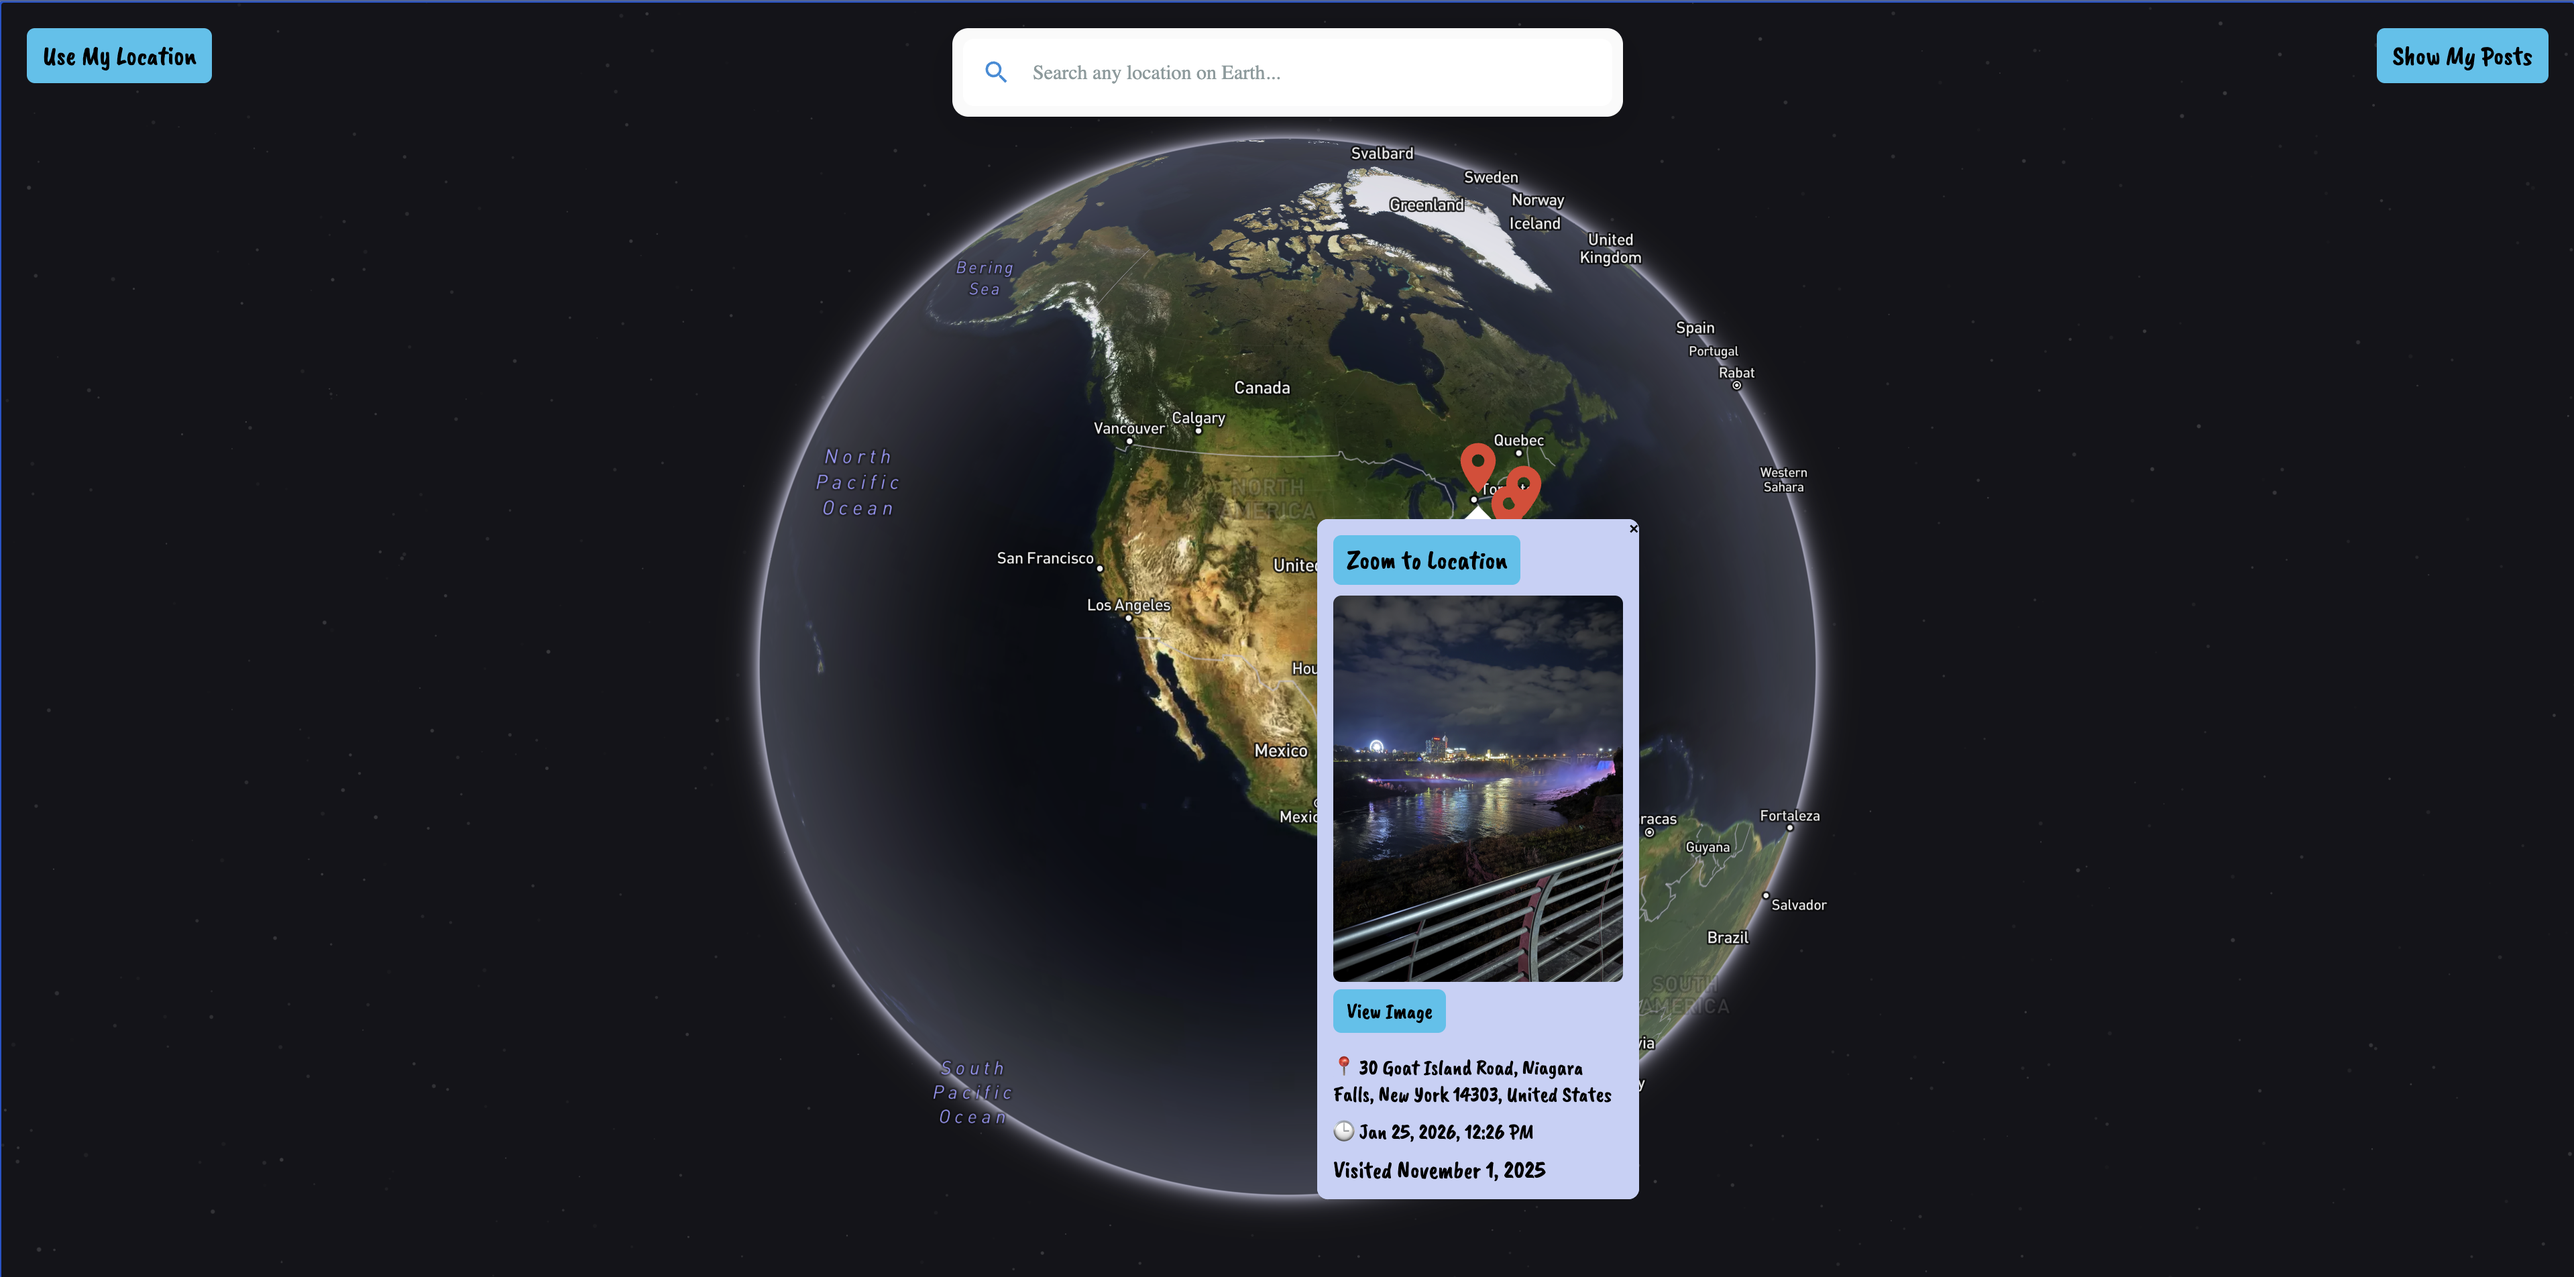
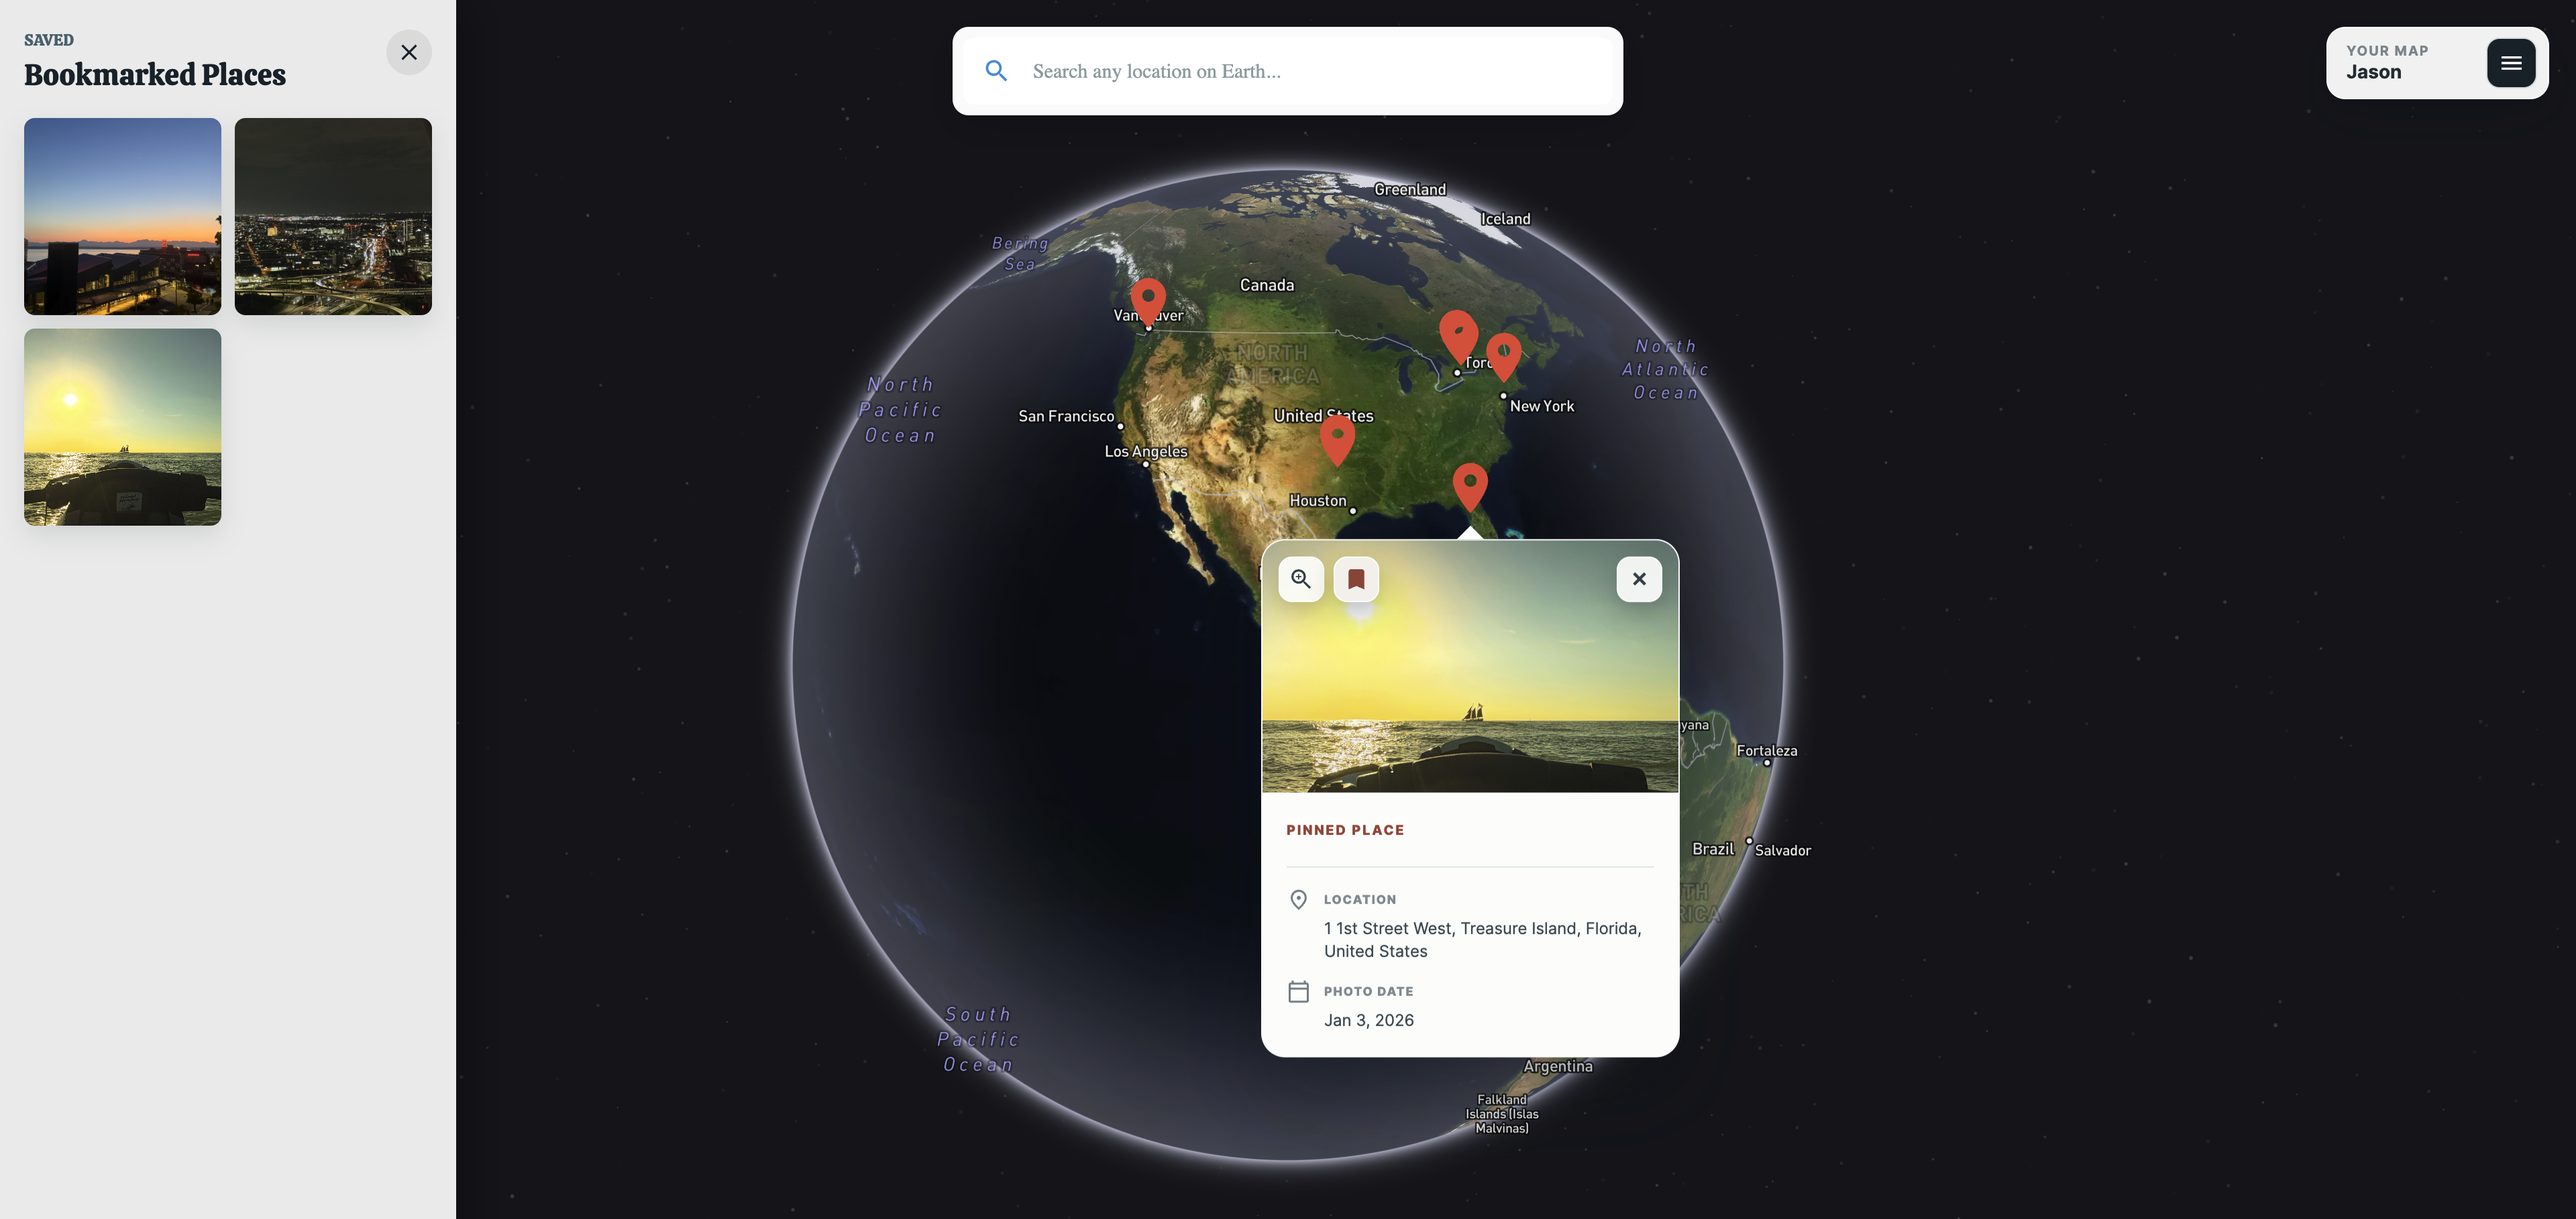
Enhance card and project styles with hover effects

diff --git a/src/styles/Projects.css b/src/styles/Projects.css
@@ -22,6 +22,10 @@
       linear-gradient(135deg, rgba(12, 43, 78, 0.94), rgba(29, 84, 108, 0.82));
     box-shadow: 0 28px 70px rgba(12, 43, 78, 0.3);
     font-family: var(--font-main);
+    transition:
+      transform 0.3s ease,
+      border-color 0.3s ease,
+      box-shadow 0.3s ease;
 }
 
 .featured-project::after {
@@ -29,7 +33,27 @@
     position: absolute;
     inset: 0;
     border-top: 3px solid var(--green-tint);
+    background: linear-gradient(
+      135deg,
+      rgba(100, 255, 218, 0.1),
+      transparent 35%
+    );
+    opacity: 0.72;
     pointer-events: none;
+    transition: opacity 0.3s ease;
+}
+
+.featured-project:hover {
+    transform: translateY(-8px);
+    border-color: rgba(100, 255, 218, 0.72);
+    box-shadow:
+      0 34px 78px rgba(12, 43, 78, 0.38),
+      0 0 28px rgba(100, 255, 218, 0.15),
+      0 0 0 1px rgba(100, 255, 218, 0.16);
+}
+
+.featured-project:hover::after {
+    opacity: 1;
 }
 
 .featured-project-media {
@@ -50,12 +74,11 @@
 .featured-project-media img {
     width: 100%;
     height: 100%;
-    object-fit: cover;
+    object-fit: contain;
     transition: transform 600ms cubic-bezier(0.16, 1, 0.3, 1), filter 400ms ease;
 }
 
 .featured-project:hover .featured-project-media img {
-    transform: scale(1.035);
     filter: saturate(1.08);
 }
 
@@ -89,6 +112,11 @@
     color: var(--white);
     font-size: 34px;
     font-weight: 700;
+    transition: color 0.3s ease;
+}
+
+.featured-project:hover .featured-project-content h3 {
+    color: var(--green-tint);
 }
 
 .featured-project-content p {

diff --git a/src/styles/card.css b/src/styles/card.css
@@ -1,5 +1,9 @@
 .card {
-  transition: transform 0.3s ease, box-shadow 0.3s ease, border-color 0.3s ease;
+  position: relative;
+  transition:
+    transform 0.3s ease,
+    box-shadow 0.3s ease,
+    border-color 0.3s ease;
   cursor: pointer;
   background:
     linear-gradient(180deg, rgba(29, 84, 108, 0.92), rgba(12, 43, 78, 0.86));
@@ -10,19 +14,48 @@
   box-shadow: 0 18px 45px rgba(12, 43, 78, 0.18);
 }
 
+.card::after {
+  content: "";
+  position: absolute;
+  inset: 0;
+  border-radius: inherit;
+  background: linear-gradient(
+    135deg,
+    rgba(100, 255, 218, 0.12),
+    transparent 38%
+  );
+  opacity: 0;
+  pointer-events: none;
+  transition: opacity 0.3s ease;
+}
+
 .card:hover {
   transform: translateY(-10px);
-  border-color: rgba(100, 255, 218, 0.5);
-  box-shadow: 0 28px 60px rgba(12, 43, 78, 0.32), 0 0 0 1px rgba(100, 255, 218, 0.12);
+  border-color: rgba(100, 255, 218, 0.72);
+  box-shadow:
+    0 28px 60px rgba(12, 43, 78, 0.36),
+    0 0 24px rgba(100, 255, 218, 0.14),
+    0 0 0 1px rgba(100, 255, 218, 0.16);
+}
+
+.card:hover::after {
+  opacity: 1;
 }
 
 .card:hover img {
-  opacity: 0.88;
-  transform: scale(1.04);
+  filter: brightness(1.06) saturate(1.08);
 }
 
 .card img {
-  transition: transform 0.35s ease, opacity 0.35s ease;
+  transition: filter 0.35s ease;
+}
+
+.card .card-title {
+  transition: color 0.3s ease;
+}
+
+.card:hover .card-title {
+  color: var(--green-tint);
 }
 /* Mobile Responsive - 600px and below */
 @media only screen and (max-width: 600px) {
